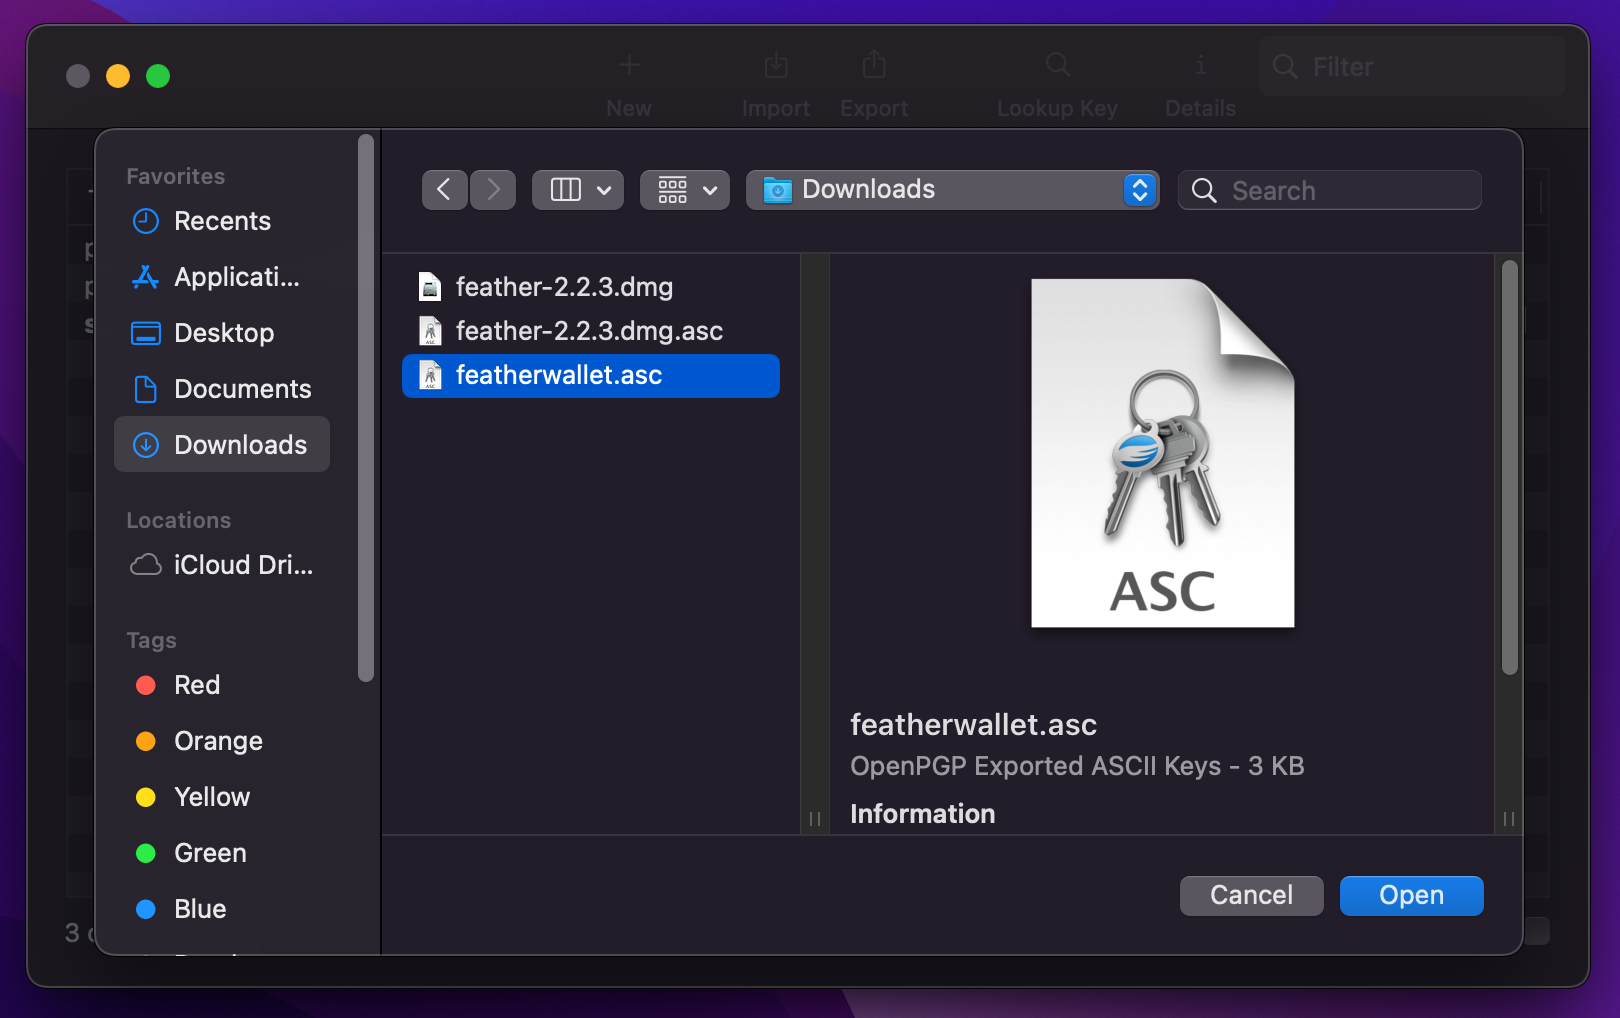
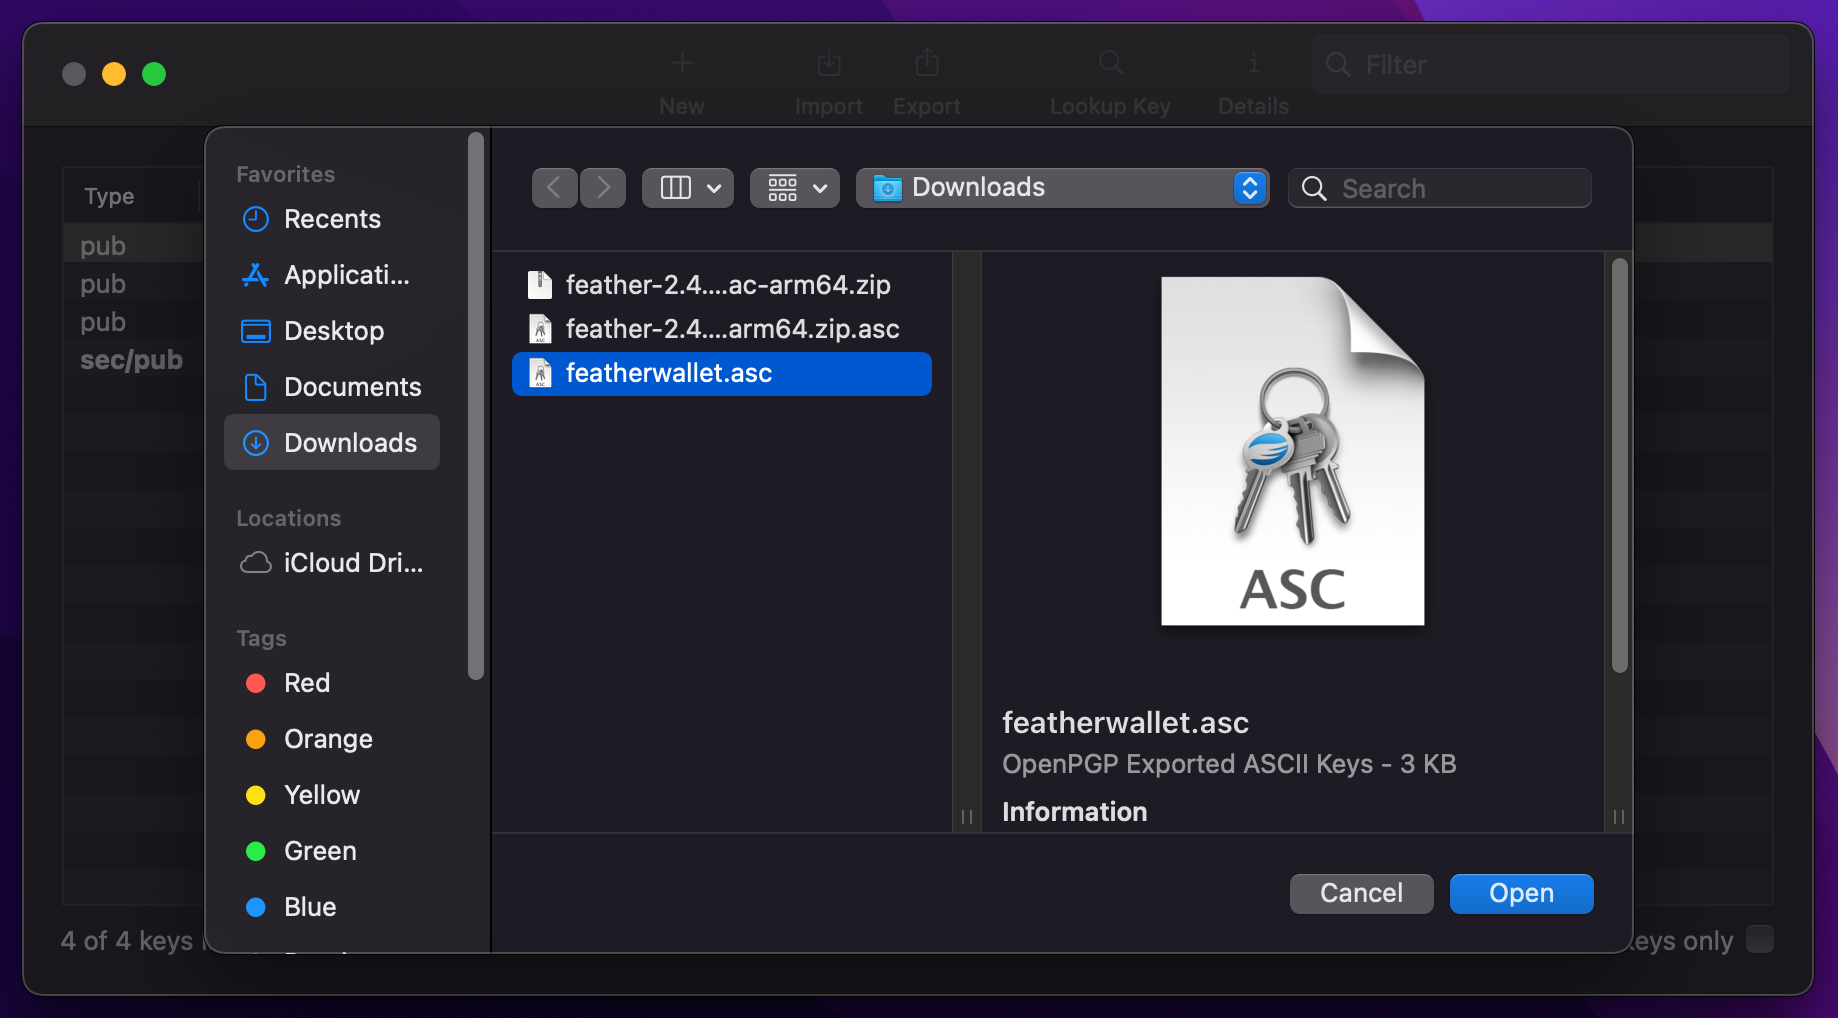
macos: update instructions

diff --git a/content/_guides/macos.md b/content/_guides/macos.md
@@ -11,18 +11,16 @@ The estimated storage requirement is ~70 MB.
 
 ### Installing Feather
 
-- Download the latest .dmg from [featherwallet.org/download](https://featherwallet.org/download).
-
-![Open Feather dmg](/static/files/macos_open_dmg.png)
-
+- Download the latest Application Bundle from [featherwallet.org/download](https://featherwallet.org/download).
 - (Optional) Verify the download by following the steps in the [next section](macos#verifying-the-download)
-- In Finder, right-click on the .dmg file → open.
-- Click "feather" under Locations
 
-![Drag the Feather app to Applications](/static/files/macos_install.png)
+![Open Feather zip](/static/files/macos-extract-zip.png)
 
-- Drag the Feather app to Applications
+- If the .zip file is not already extracted, right-click on the .zip file → open.
 
+![Feather app bundle](/static/files/macos-app-bundle.png)
+
+- Drag Feather app into "Applications" in the sidebar.
 - Go to Applications
 - Right click on Feather -> Open
 
@@ -74,9 +72,9 @@ Click cancel, and try opening Feather again. This time you should have an option
 ![](/static/files/macos-gpg-sign-release-key-success.png)
 
 - Go back to [featherwallet.org/download](https://featherwallet.org/download) and download the **signature** file for the release you downloaded earlier.
-  - Place it in the same folder as `feather-x.x.x.dmg`
+  - Place it in the same folder as `feather-x.x.x.zip`
 
-- Right-click on the `feather-x.x.x.dmg.asc` signature file → Open With → GPG Services.service
+- Right-click on the `feather-x.x.x.zip.asc` signature file → Open With → GPG Services.service
 
 ![](/static/files/macos-gpg-verify-release.png)
 
